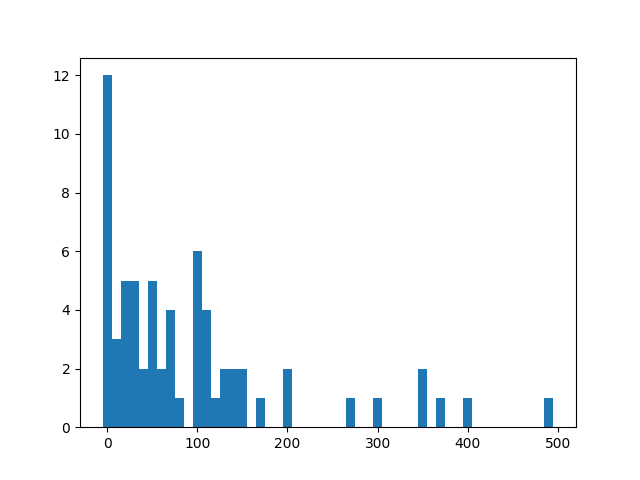
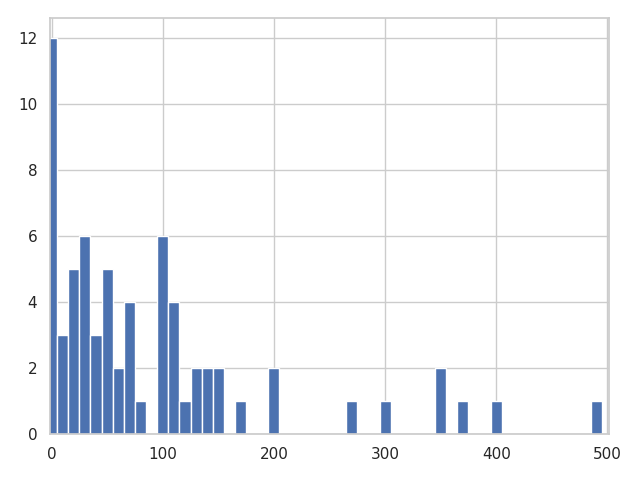
fixed pearson, spearman and major plotting overhaul

diff --git a/survey/analyser.py b/survey/analyser.py
@@ -1,16 +1,20 @@
-import math
 import collections
 import json
-import matplotlib.pyplot as plt
-from pathlib import Path
-import pandas as pd
+import math
 import sys
-from scipy.stats import pearsonr, spearmanr, wilcoxon, linregress, binom_test
+from pathlib import Path
+
 import httpagentparser
+import matplotlib.pyplot as plt
+import pandas as pd
 import redis
+import seaborn as sns
+from scipy.stats import binom_test, linregress, pearsonr, spearmanr, wilcoxon
 
 sys.path.insert(0, ".")
 from edit_image import parameter_range
+
+sns.set(style="whitegrid")
 
 submission_log = "/scratch/stud/pfister/NIAA/pexels/logs/submissions.log"
 # submission_log = "/home/stud/pfister/random.log"
@@ -60,10 +64,10 @@ for key in parameter_range.keys():
     chosenDist[key] = dict()
     chosenDist[key]["chosen"] = collections.defaultdict(lambda: 0)
     chosenDist[key]["displayed"] = collections.defaultdict(lambda: 0)
-    chosenDist[key]["posCorrelationBase"] = []  #  type: List[Tuple[float, int]]
-    chosenDist[key]["negCorrelationBase"] = []  #  type: List[Tuple[float, int]]
-    chosenDist[key]["posCorrelation"] = []  #  type: List[Tuple[float, int]]
-    chosenDist[key]["negCorrelation"] = []  #  type: List[Tuple[float, int]]
+    chosenDist[key]["posCorrelationBase"] = collections.defaultdict(lambda: 0)
+    chosenDist[key]["negCorrelationBase"] = collections.defaultdict(lambda: 0)
+    chosenDist[key]["posCorrelation"] = collections.defaultdict(lambda: 0)
+    chosenDist[key]["negCorrelation"] = collections.defaultdict(lambda: 0)
 
 for _, row in sub_df.iterrows():
     if row["chosen"] == "error":
@@ -169,8 +173,12 @@ for _, row in sub_df.iterrows():
     if not bothSame and chosen != "unsure":
         if smallerChosen:
             chosenDict[parameter]["smaller"] += 1
+            if smallChangeIsOriginal:
+                chosenDict[parameter]["origsmaller"] += 1
         elif largerChosen:
             chosenDict[parameter]["larger"] += 1
+            if smallChangeIsOriginal:
+                chosenDict[parameter]["origlarger"] += 1
         else:
             raise ("hä")
 
@@ -186,34 +194,24 @@ for _, row in sub_df.iterrows():
         if smallChangeIsOriginal:
             if smallerChosen:
                 if changeSign == "+":
-                    chosenDist[parameter]["posCorrelationBase"].append((abs(largeChange), 1))
+                    chosenDist[parameter]["posCorrelationBase"][abs(largeChange)] += 1
                 elif changeSign == "-":
-                    chosenDist[parameter]["negCorrelationBase"].append((abs(largeChange), 1))
-            else:
-                if changeSign == "+":
-                    chosenDist[parameter]["posCorrelationBase"].append((abs(largeChange), 0))
-                elif changeSign == "-":
-                    chosenDist[parameter]["negCorrelationBase"].append((abs(largeChange), 0))
+                    chosenDist[parameter]["negCorrelationBase"][abs(largeChange)] += 1
         else:
             if smallerChosen:
                 if changeSign == "+":
-                    chosenDist[parameter]["posCorrelation"].append((abs(largeChange - smallChange), 1))
+                    chosenDist[parameter]["posCorrelation"][abs(largeChange - smallChange)] += 1
                 elif changeSign == "-":
-                    chosenDist[parameter]["negCorrelation"].append((abs(largeChange - smallChange), 1))
-            else:
-                if changeSign == "+":
-                    chosenDist[parameter]["posCorrelation"].append((abs(largeChange - smallChange), 0))
-                elif changeSign == "-":
-                    chosenDist[parameter]["negCorrelation"].append((abs(largeChange - smallChange), 0))
+                    chosenDist[parameter]["negCorrelation"][abs(largeChange - smallChange)] += 1
 
+f, axs = plt.subplots(3, 4, sharey=True, figsize=(20, 10))
+axs = [x for sublist in axs for x in sublist]  # flatten
 params = sorted(parameter_range.keys(), key=lambda k: binom_test(chosenDict[k]["smaller"], n=chosenDict[k]["smaller"] + chosenDict[k]["larger"]))
-for key in params:
+for i, key in enumerate(params):
     print(f"{key}:\t{'{:.1f}%'.format(sum(chosenDict[key].values()) / sum([sum(val.values()) for val in chosenDict.values()])*100)}\t| {sum(chosenDict[key].values())}")
-    print("\tbinomial test w/o unsure:\tp: {:05.4f}".format(binom_test(chosenDict[key]["smaller"], n=chosenDict[key]["smaller"] + chosenDict[key]["larger"])), f"(x={chosenDict[key]['smaller']} | n={chosenDict[key]['smaller'] + chosenDict[key]['larger']})")
-    print(
-        "\tbinomial test w/ unsure:\tp: {:05.4f}".format(binom_test(chosenDict[key]["smaller"], n=chosenDict[key]["smaller"] + chosenDict[key]["larger"] + chosenDict[key]["unsure_eq"] + chosenDict[key]["unsure_not_eq"])),
-        f"(x={chosenDict[key]['smaller']} | n={chosenDict[key]['smaller'] + chosenDict[key]['larger'] + chosenDict[key]['unsure_eq'] + chosenDict[key]['unsure_not_eq']})",
-    )
+    print("\tbinomial test overall w/o unsure:\tp: {:05.4f}".format(binom_test(chosenDict[key]["smaller"], n=chosenDict[key]["smaller"] + chosenDict[key]["larger"])), f"(x={chosenDict[key]['smaller']} | n={chosenDict[key]['smaller'] + chosenDict[key]['larger']})")
+    print("\tbinomial test w/ orig. img. w/o unsure:\tp: {:05.4f}".format(binom_test(chosenDict[key]["origsmaller"], n=chosenDict[key]["origsmaller"] + chosenDict[key]["origlarger"])), f"(x={chosenDict[key]['origsmaller']} | n={chosenDict[key]['origsmaller'] + chosenDict[key]['origlarger']})")
+
     print(f"\tsmaller edit:\t\t{'{:.1f}%'.format(chosenDict[key]['smaller'] / sum(chosenDict[key].values()) * 100)}\t| {chosenDict[key]['smaller']}")
     print(f"\tlarger edit:\t\t{'{:.1f}%'.format(chosenDict[key]['larger'] / sum(chosenDict[key].values()) * 100)}\t| {chosenDict[key]['larger']}")
     print(f"\tunsure and equal:\t{'{:.1f}%'.format(chosenDict[key]['unsure_eq'] / sum(chosenDict[key].values()) * 100)}\t| {chosenDict[key]['unsure_eq']}")
@@ -221,32 +219,35 @@ for key in params:
     print(f"\tnot unsure but equal:\t{'{:.1f}%'.format(chosenDict[key]['not_unsure_eq'] / sum(chosenDict[key].values()) * 100)}\t| {chosenDict[key]['not_unsure_eq']}")
 
     print("\tcorr. for pos. changes | one image original | larger changes == more clicks for original image?:")
-    print("\t\tpearson:\tcorr. coeff: {:05.3f} p: {:05.4f}".format(*pearsonr(*list(zip(*chosenDist[key]["posCorrelationBase"])))))
-    print("\t\tspearman:\tcorr. coeff: {:05.3f} p: {:05.4f}".format(*spearmanr(*list(zip(*chosenDist[key]["posCorrelationBase"])))))
-    print("\t\tlinregr:\tslope: {:05.3f} intercept: {:05.3f} corr. coeff: {:05.3f} p: {:05.4f} stderr: {:05.3f}".format(*linregress(*list(zip(*chosenDist[key]["posCorrelationBase"])))))
+    print("\t\tpearson:\tcorr. coeff: {:05.3f} p: {:05.4f}".format(*pearsonr(*list(zip(*chosenDist[key]["posCorrelationBase"].items())))))
+    print("\t\tspearman:\tcorr. coeff: {:05.3f} p: {:05.4f}".format(*spearmanr(*list(zip(*chosenDist[key]["posCorrelationBase"].items())))))
+    print("\t\tlinregr:\tslope: {:05.3f} intercept: {:05.3f} corr. coeff: {:05.3f} p: {:05.4f} stderr: {:05.3f}".format(*linregress(*list(zip(*chosenDist[key]["posCorrelationBase"].items())))))
 
     if len(chosenDist[key]["negCorrelationBase"]) != 0 and key != "vibrance":
         print("\tcorr. for neg. changes | one image original | larger changes == more clicks for original image?:")
-        print("\t\tpearson:\tcorr. coeff: {:05.3f} p: {:05.4f}".format(*pearsonr(*list(zip(*chosenDist[key]["negCorrelationBase"])))))
-        print("\t\tspearman:\tcorr. coeff: {:05.3f} p: {:05.4f}".format(*spearmanr(*list(zip(*chosenDist[key]["negCorrelationBase"])))))
-        print("\t\tlinregr:\tslope: {:05.3f} intercept: {:05.3f} corr. coeff: {:05.3f} p: {:05.4f} stderr: {:05.3f}".format(*linregress(*list(zip(*chosenDist[key]["negCorrelationBase"])))))
+        print("\t\tpearson:\tcorr. coeff: {:05.3f} p: {:05.4f}".format(*pearsonr(*list(zip(*chosenDist[key]["negCorrelationBase"].items())))))
+        print("\t\tspearman:\tcorr. coeff: {:05.3f} p: {:05.4f}".format(*spearmanr(*list(zip(*chosenDist[key]["negCorrelationBase"].items())))))
+        print("\t\tlinregr:\tslope: {:05.3f} intercept: {:05.3f} corr. coeff: {:05.3f} p: {:05.4f} stderr: {:05.3f}".format(*linregress(*list(zip(*chosenDist[key]["negCorrelationBase"].items())))))
 
     print("\tcorr. for pos. changes | all | larger changes == more clicks for original image?:")
-    print("\t\tpearson:\tcorr. coeff: {:05.3f} p: {:05.4f}".format(*pearsonr(*list(zip(*chosenDist[key]["posCorrelation"])))))
-    print("\t\tspearman:\tcorr. coeff: {:05.3f} p: {:05.4f}".format(*spearmanr(*list(zip(*chosenDist[key]["posCorrelation"])))))
-    print("\t\tlinregr:\tslope: {:05.3f} intercept: {:05.3f} corr. coeff: {:05.3f} p: {:05.4f} stderr: {:05.3f}".format(*linregress(*list(zip(*chosenDist[key]["posCorrelation"])))))
+    print("\t\tpearson:\tcorr. coeff: {:05.3f} p: {:05.4f}".format(*pearsonr(*list(zip(*chosenDist[key]["posCorrelation"].items())))))
+    print("\t\tspearman:\tcorr. coeff: {:05.3f} p: {:05.4f}".format(*spearmanr(*list(zip(*chosenDist[key]["posCorrelation"].items())))))
+    print("\t\tlinregr:\tslope: {:05.3f} intercept: {:05.3f} corr. coeff: {:05.3f} p: {:05.4f} stderr: {:05.3f}".format(*linregress(*list(zip(*chosenDist[key]["posCorrelation"].items())))))
 
     if len(chosenDist[key]["negCorrelation"]) != 0 and key != "vibrance":
         print("\tcorr. for neg. changes | all | larger changes == more clicks for original image?:")
-        print("\t\tpearson:\tcorr. coeff: {:05.3f} p: {:05.4f}".format(*pearsonr(*list(zip(*chosenDist[key]["negCorrelation"])))))
-        print("\t\tspearman:\tcorr. coeff: {:05.3f} p: {:05.4f}".format(*spearmanr(*list(zip(*chosenDist[key]["negCorrelation"])))))
-        print("\t\tlinregr:\tslope: {:05.3f} intercept: {:05.3f} corr. coeff: {:05.3f} p: {:05.4f} stderr: {:05.3f}".format(*linregress(*list(zip(*chosenDist[key]["negCorrelation"])))))
+        print("\t\tpearson:\tcorr. coeff: {:05.3f} p: {:05.4f}".format(*pearsonr(*list(zip(*chosenDist[key]["negCorrelation"].items())))))
+        print("\t\tspearman:\tcorr. coeff: {:05.3f} p: {:05.4f}".format(*spearmanr(*list(zip(*chosenDist[key]["negCorrelation"].items())))))
+        print("\t\tlinregr:\tslope: {:05.3f} intercept: {:05.3f} corr. coeff: {:05.3f} p: {:05.4f} stderr: {:05.3f}".format(*linregress(*list(zip(*chosenDist[key]["negCorrelation"].items())))))
+
     x = []
     y = []
     x_pos = []
     y_pos = []
     x_neg = []
     y_neg = []
+
+    axs[i].set_title(key)
 
     for k, v in sorted(chosenDist[key]["chosen"].items(), key=lambda k: k[0]):
         x.append(k)
@@ -259,29 +260,24 @@ for key in params:
             x_neg.append(k)
             y_neg.append((chosenDist[key]["chosen"][k] / chosenDist[key]["displayed"][k]) * 100)
 
-    plt.plot(x, y, "-x", label="probability of chosen if displayed")
-    plt.axvline(x=parameter_range[key]["default"], linestyle="--", color="orange", label="original image")
+    axs[i].plot(x, y, "-x", label="probability of chosen if displayed")
+    axs[i].axvline(x=parameter_range[key]["default"], linestyle="--", color="orange", label="original image")
 
-    slope_pos, intercept_pos, _, _, stderr_pos = linregress(x_pos, y_pos)
-    plt.plot(x_pos, [intercept_pos + slope_pos * val for val in x_pos], linestyle="-", color="orange", label="linreg")
-
+    sns.regplot(x_pos, y_pos, scatter=False, color="orange", label="linear regression", ax=axs[i])
     if len(x_neg) > 1:
-        slope_neg, intercept_neg, _, _, stderr_neg = linregress(x_neg, y_neg)
-        plt.plot(x_neg, [intercept_neg + slope_neg * val for val in x_neg], linestyle="-", color="orange")
+        sns.regplot(x_neg, y_neg, scatter=False, color="orange", ax=axs[i])
 
-    # plt.errorbar(x_pos, [intercept_pos + slope_pos * val for val in x_pos], yerr=len(x_pos) * [stderr_pos], fmt="orange", label="linreg")
-    # plt.errorbar(x_neg, [intercept_neg + slope_neg * val for val in x_neg], yerr=len(x_neg) * [stderr_neg], fmt="orange")
-
-    plt.ylim(bottom=0)
-    plt.legend()
-    plt.savefig(plot_dir / f"{key}_dist.png")
-    plt.clf()
-    # print(sorted(list(chosenDist[key].items()), key=lambda k: k[0]))
+    axs[i].set_ylim(bottom=0, top=100)
     print()
+
+plt.tight_layout()
+plt.savefig(plot_dir / f"dist.png")
+plt.clf()
+
 print("---")
 print()
 
-
+plt.figure()
 print("decision duration:")
 durations = (sub_df.submitTime - sub_df.loadTime).astype("timedelta64[s]")
 
@@ -289,14 +285,17 @@ no_afk_durations = durations[durations < 60]
 print(f"average time for decision: {'{:.1f}'.format(no_afk_durations.mean())} seconds")
 
 plt.hist(durations.values, bins=range(0, int(no_afk_durations.max()) + 1), align="left")
+# sns.distplot(durations, bins=range(0, int(no_afk_durations.max()) + 1), hist_kws={"align": "left"})
 plt.ylim(bottom=0)
+plt.xlim(left=-1, right=int(no_afk_durations.max()) + 2)
+plt.tight_layout()
 plt.savefig(plot_dir / "decision-duration.png")
 plt.clf()
 
 print("---")
 print()
 
-
+plt.figure()
 print("useragent distribution:")
 useragents = []
 for _, row in sub_df.iterrows():
@@ -318,7 +317,10 @@ usercount = sub_df[["userid", "hashval"]].rename(columns={"hashval": "count"}).g
 print(usercount.nlargest(5, "count"))
 
 plt.hist(usercount.values, bins=range(0, int(usercount.max()) + 1, 10), align="left")
+# sns.distplot(usercount, bins=range(0, int(usercount.max()) + 1, 10), hist_kws={"align": "left"})
 plt.ylim(bottom=0)
+plt.xlim(left=-1, right=int(usercount.max()) + 1)
+plt.tight_layout()
 plt.savefig(plot_dir / "session-duration.png")
 plt.clf()
 
